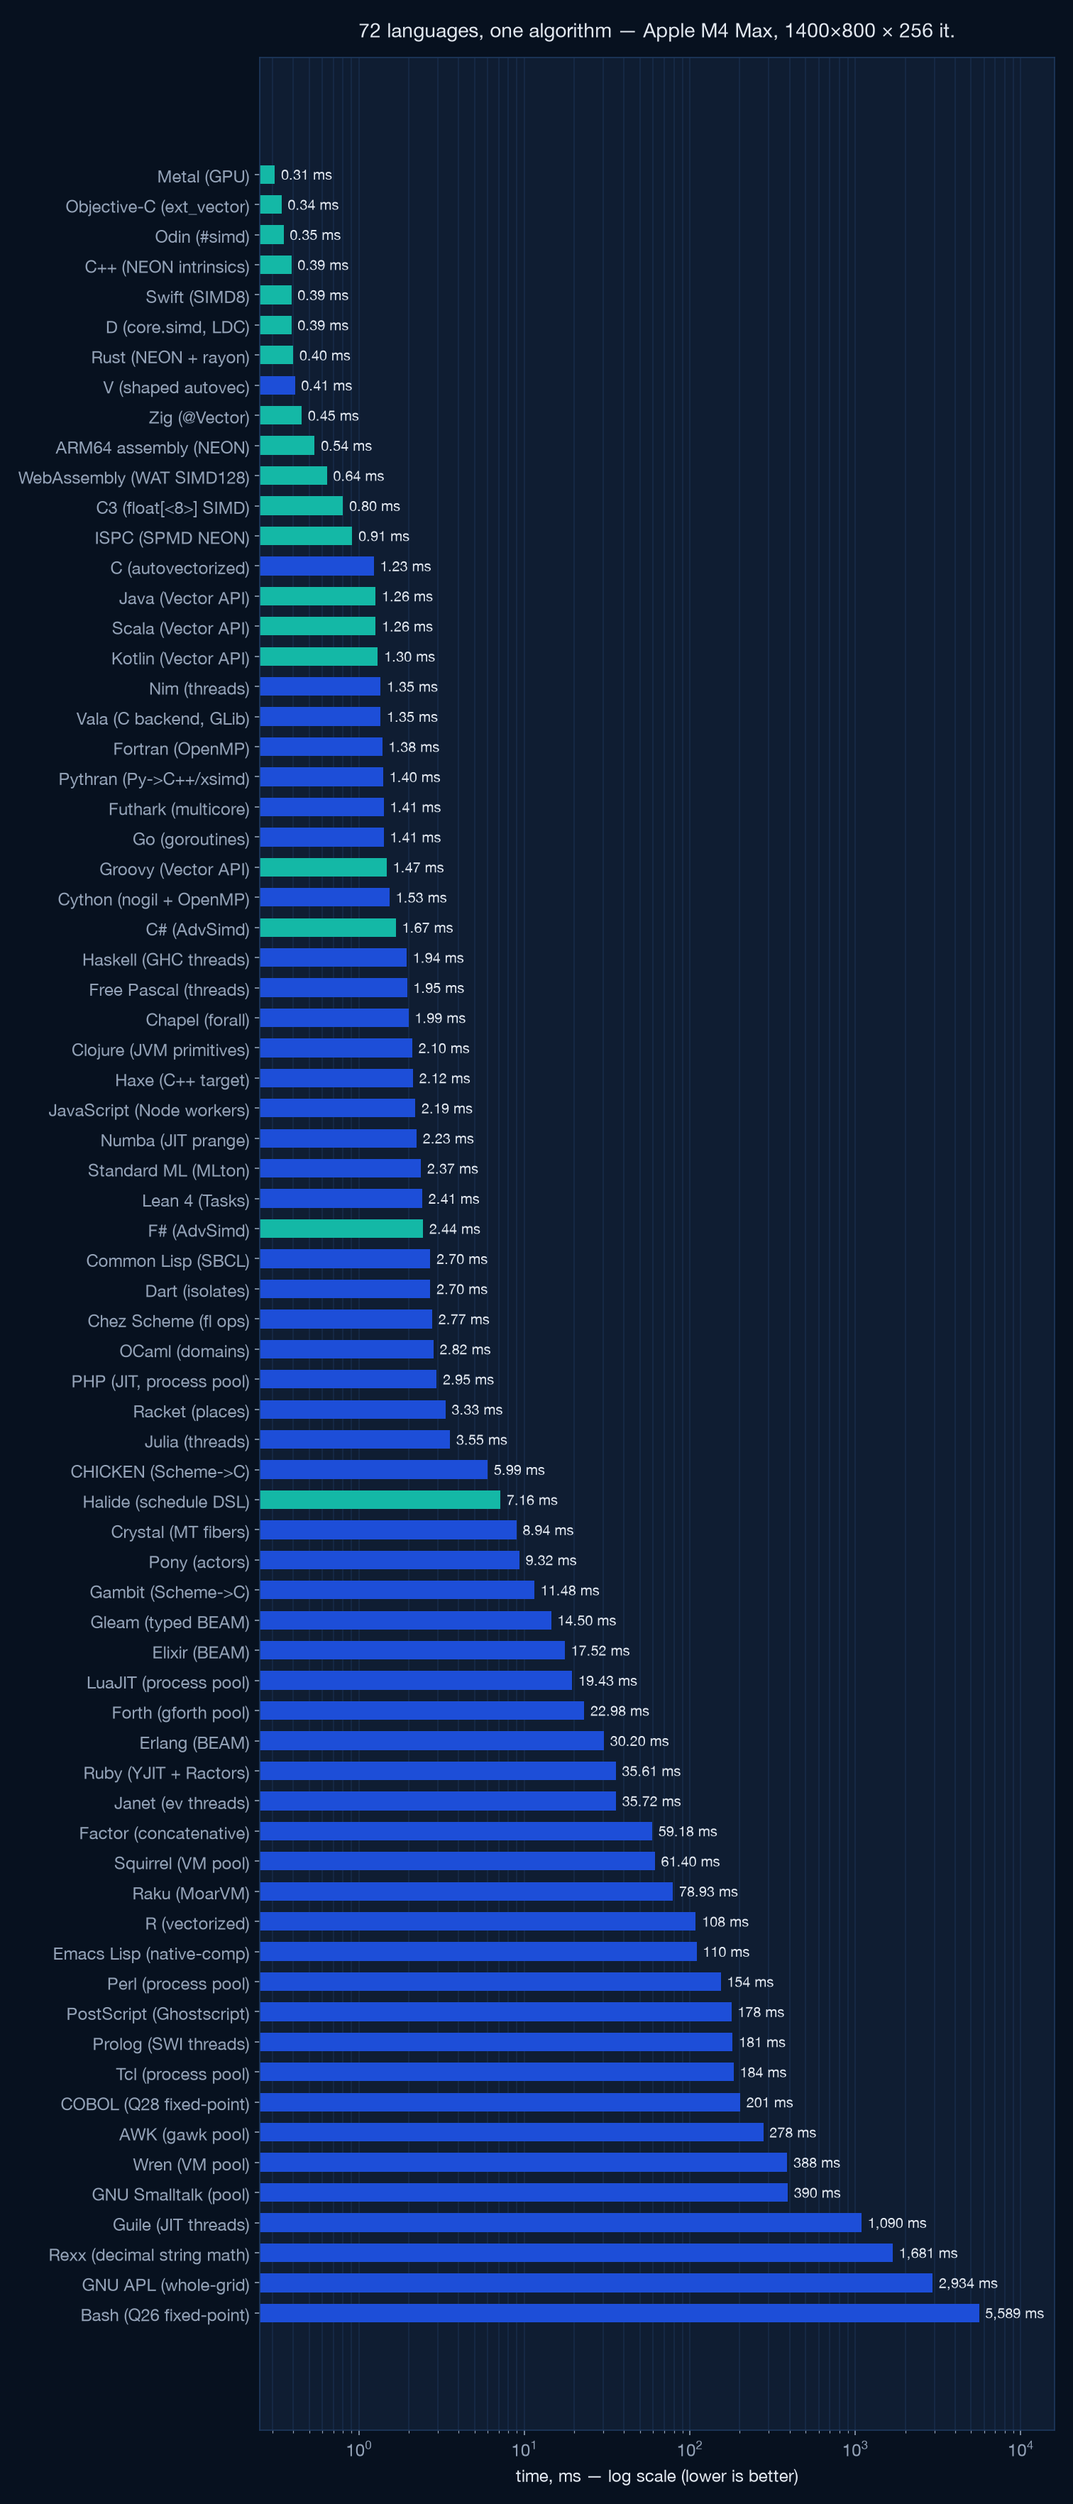
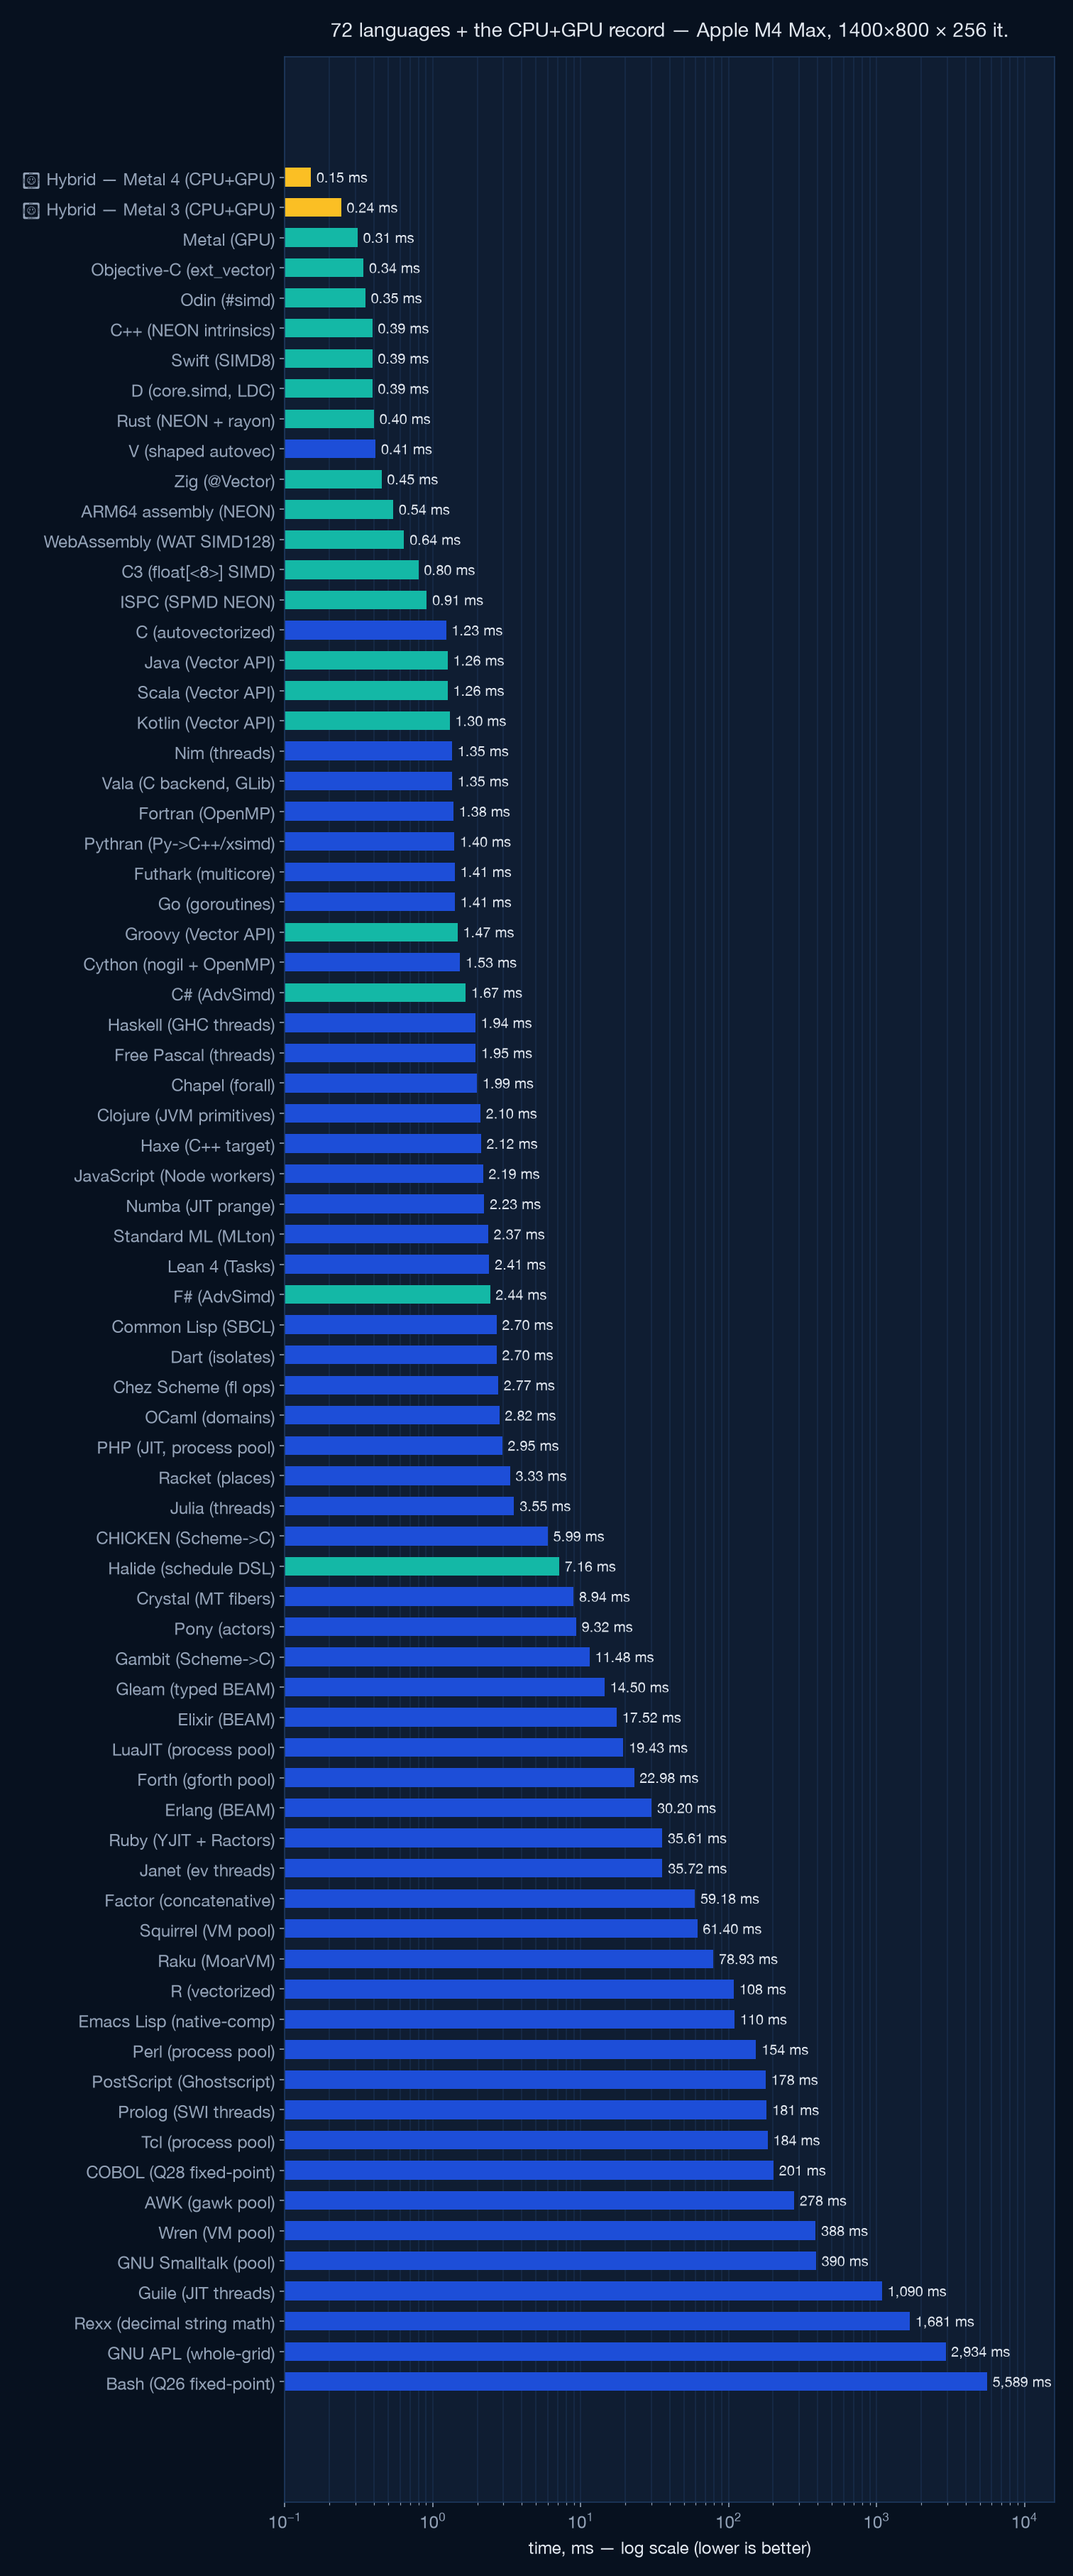
Languages chart: add the CPU+GPU record (0.15/0.24 ms hybrids) as gold toppers
The 72-language chart's fastest bar was Metal GPU 0.31 ms; the overall record
(Metal 4 hybrid 0.15, Metal 3 hybrid 0.24) was absent. Added both as gold bars
above the languages, clearly marked as combined CPU+GPU (not single languages),
with a caption note. Lowered x-axis min to 0.1 so the 0.15 ms bar renders.
Cache-bust bumped to ?v=rec.

diff --git a/web/index.html b/web/index.html
@@ -545,8 +545,8 @@ zi = <span class="tok-f">vmlaq_f32</span>(ci, <span class="tok-f">vmulq_f32</spa
     <p class="lede reveal">Same SIMD strategy, same early-outs, same symmetry, same escape semantics —
       reimplemented in seventy-two languages to separate <i>language</i> speed from <i>algorithm</i> speed.</p>
     <figure class="chart reveal">
-      <img src="assets/chart-languages.png?v=metal4" alt="Language shootout, 72 languages from Metal 0.31 ms to Bash 5.6 s, log scale" loading="lazy">
-      <figcaption>Best-of-N runs, log scale. Teal = explicit SIMD (GPU, vector types, intrinsics, Vector API, hand-written assembly); blue = scalar.</figcaption>
+      <img src="assets/chart-languages.png?v=rec" alt="Language shootout, 72 languages from Metal 0.31 ms to Bash 5.6 s, plus the CPU+GPU record hybrid at 0.15 ms on top, log scale" loading="lazy">
+      <figcaption>Best-of-N runs, log scale. <b style="color:#fbbf24">Gold</b> = the overall CPU+GPU record (the Metal 4 and Metal 3 hybrids — not single languages, shown for reference). Teal = explicit SIMD (GPU, vector types, intrinsics, Vector API, hand-written assembly); blue = scalar.</figcaption>
     </figure>
     <div class="callout reveal">
       <b>Objective-C is the fastest CPU entry</b> — generic clang <code>ext_vector_type</code> beat

diff --git a/scripts/make_charts.py b/scripts/make_charts.py
@@ -209,22 +209,26 @@ LANGS = [
     ("GNU Smalltalk (pool)", 389.97, False),
     ("Guile (JIT threads)", 1089.61, False),
     ("GNU APL (whole-grid)", 2933.82, False),
+    # Overall records — combined CPU+GPU, NOT single languages (gold)
+    ("★ Hybrid — Metal 4 (CPU+GPU)", 0.15, "REC"),
+    ("★ Hybrid — Metal 3 (CPU+GPU)", 0.24, "REC"),
 ]
 LANGS.sort(key=lambda x: x[1])
-fig, ax = plt.subplots(figsize=(10.5, 24.5))
+fig, ax = plt.subplots(figsize=(10.5, 25.2))
 names = [x[0] for x in LANGS][::-1]
 vals = [x[1] for x in LANGS][::-1]
-colors = [TEAL if x[2] else BLUE for x in LANGS][::-1]
+GOLD = "#fbbf24"
+colors = [(GOLD if x[2] == "REC" else TEAL if x[2] else BLUE) for x in LANGS][::-1]
 bars = ax.barh(names, vals, color=colors, height=0.62)
 ax.set_xscale("log")
 ax.set_xlabel("time, ms — log scale (lower is better)")
-ax.set_title("72 languages, one algorithm — Apple M4 Max, 1400×800 × 256 it.",
+ax.set_title("72 languages + the CPU+GPU record — Apple M4 Max, 1400×800 × 256 it.",
              pad=14, fontsize=14)
 for b, v in zip(bars, vals):
     lbl = f"{v:.2f} ms" if v < 100 else f"{v:,.0f} ms"
     ax.text(b.get_width() * 1.09, b.get_y() + b.get_height() / 2, lbl,
             va="center", fontsize=10, color=TEXT)
-ax.set_xlim(0.25, 16000)
+ax.set_xlim(0.1, 16000)
 ax.grid(axis="x", which="both")
 ax.set_axisbelow(True)
 fig.tight_layout()
